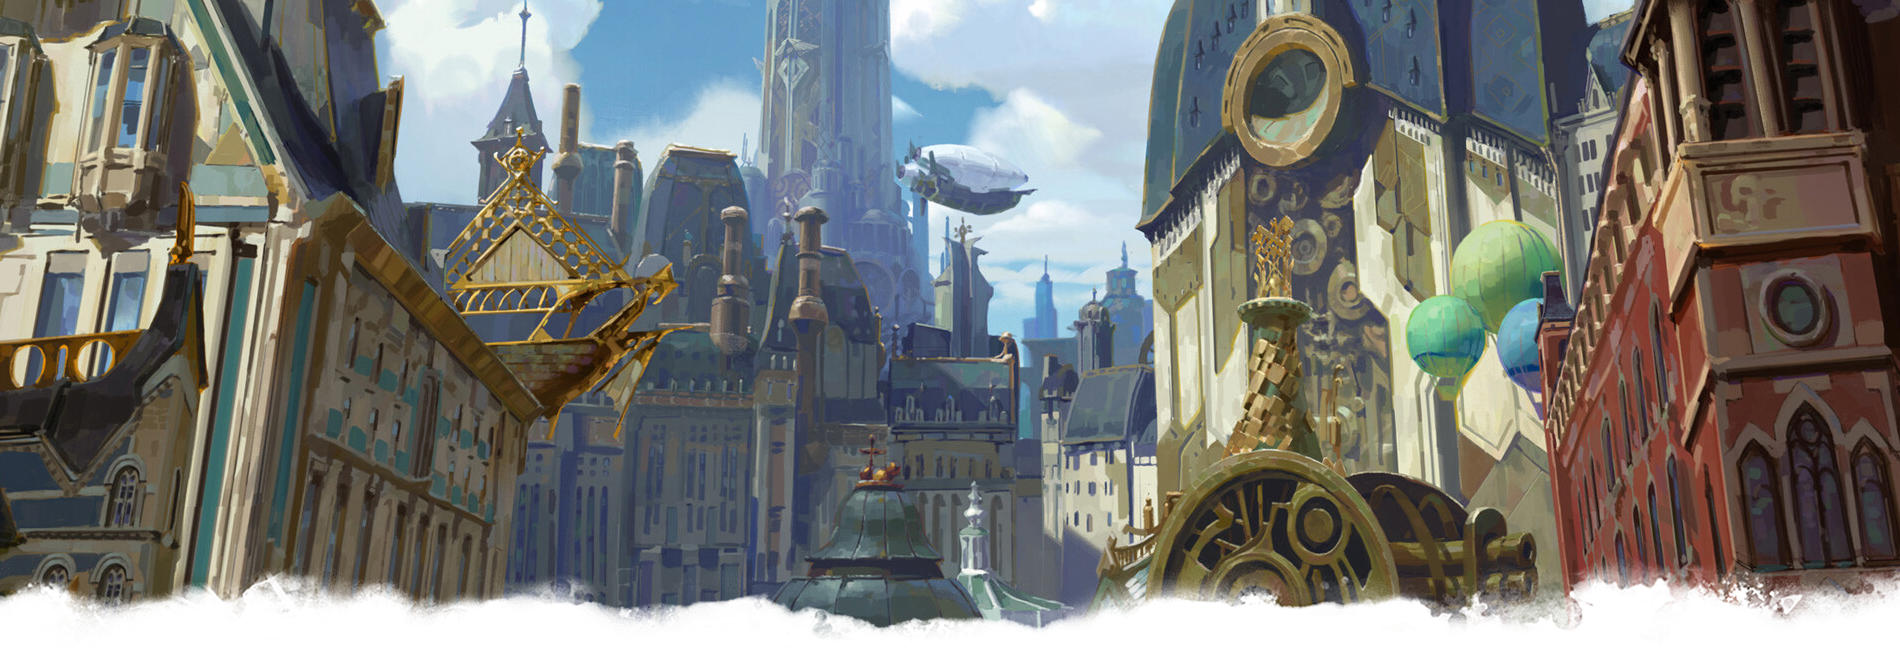
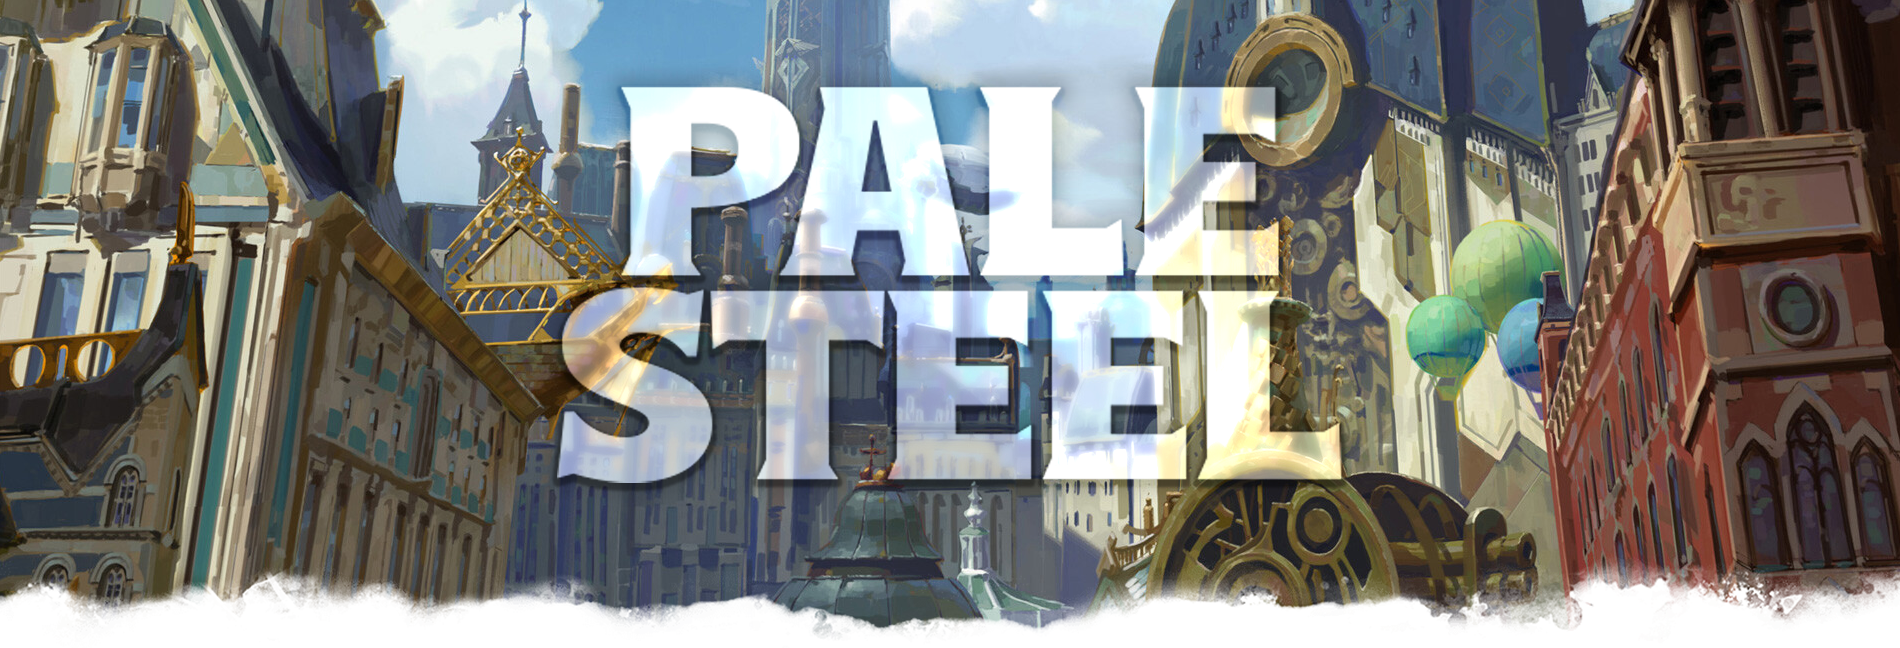
Quartz sync: Mar 1, 2026, 3:36 AM

Changed region(s): [[0.2795, 0.1235, 0.7142, 0.7716]]

diff --git a/content/Elysian Glossary.md b/content/Elysian Glossary.md
@@ -1,35 +1,64 @@
 ---
-draft: "true"
+draft: "false"
 title: Elysian Glossary
 ---
 # INDEX
 | [[#A]] | [[#B]] | [[#C]] | [[#D]] | [[#E]] | [[#F]] | [[#G]] | [[#H]] | [[#I]] | [[#J]] | [[#K]] | [[#L]] | [[#M]] | [[#N]] | [[#O]] | [[#P]] | [[#Q]] | [[#R]] | [[#S]] | [[#T]] | [[#U]] | [[#V]] | [[#W]] | [[#X]] | [[#Y]] | [[#Z]] |
 
 ## A
+***
 ## B
+***
 ## C
+***
 ## D
+***
 ## E
+***
 ## F
+***
 ## G
+***
 ## H
+***
 ## I
+### Ivory Sea
+An endless pale expanse blanketing the bottom of the world.
+***
 ## J
+***
 ## K
+***
 ## L
+***
 ## M
+***
 ## N
+***
 ## O
+***
 ## P
+***
 ## Q
+***
 ## R
+***
 ## S
 ### Symbol
-a
+A mortal who has ascended to divinity through embodying an aspect.
 ## T
+***
 ## U
+***
 ## V
+### Voyager of Fortune
+A person willing to take risks for personal gain; an adventurer.
+***
 ## W
+***
 ## X
+***
 ## Y
+***
 ## Z
+***

diff --git a/content/Pale Steel Primer.md b/content/Pale Steel Primer.md
@@ -1,5 +1,7 @@
 ---
-title: Pale Steel Primer
+title: Pale Steel
 draft: "false"
 ---
 ![[Pale Steel Header.png]]
+# Welcome to Elysium, [[Elysian Glossary#Voyager of Fortune|Voyager]]
+**Elysium** is a is a sword-and-sorcery science-fantasy world of floating islands adrift over the endless [[Elysian Glossary#Ivory Sea|Ivory Sea]]. In Elysium, skyships and beasts soar the skies between industrialized cities, drifting frontier shards, and ancient ruins coveting lost arcana, glittering hoards, and lethal consequences.
